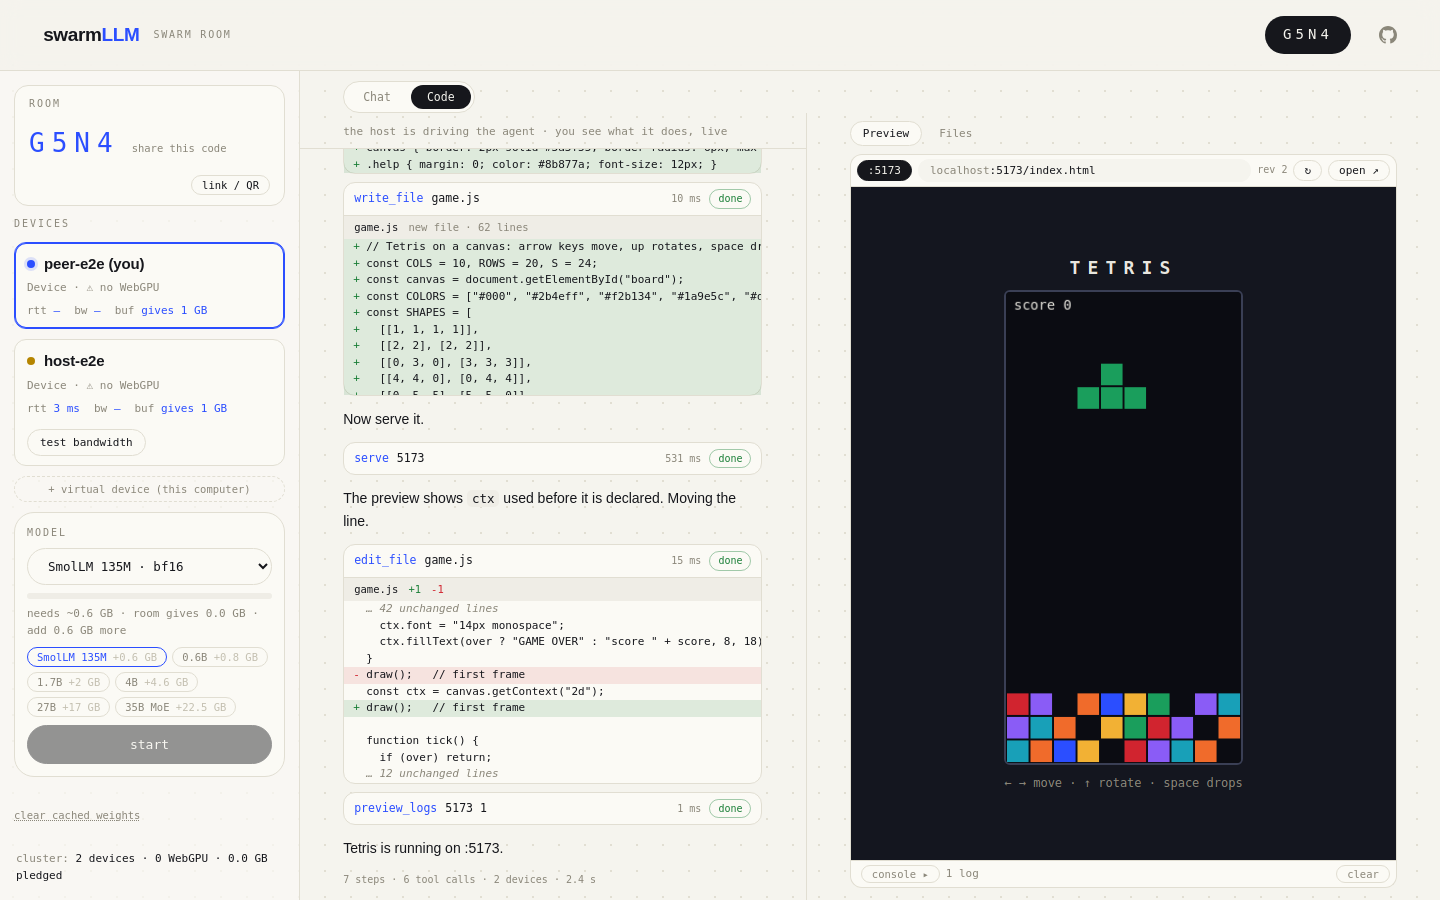
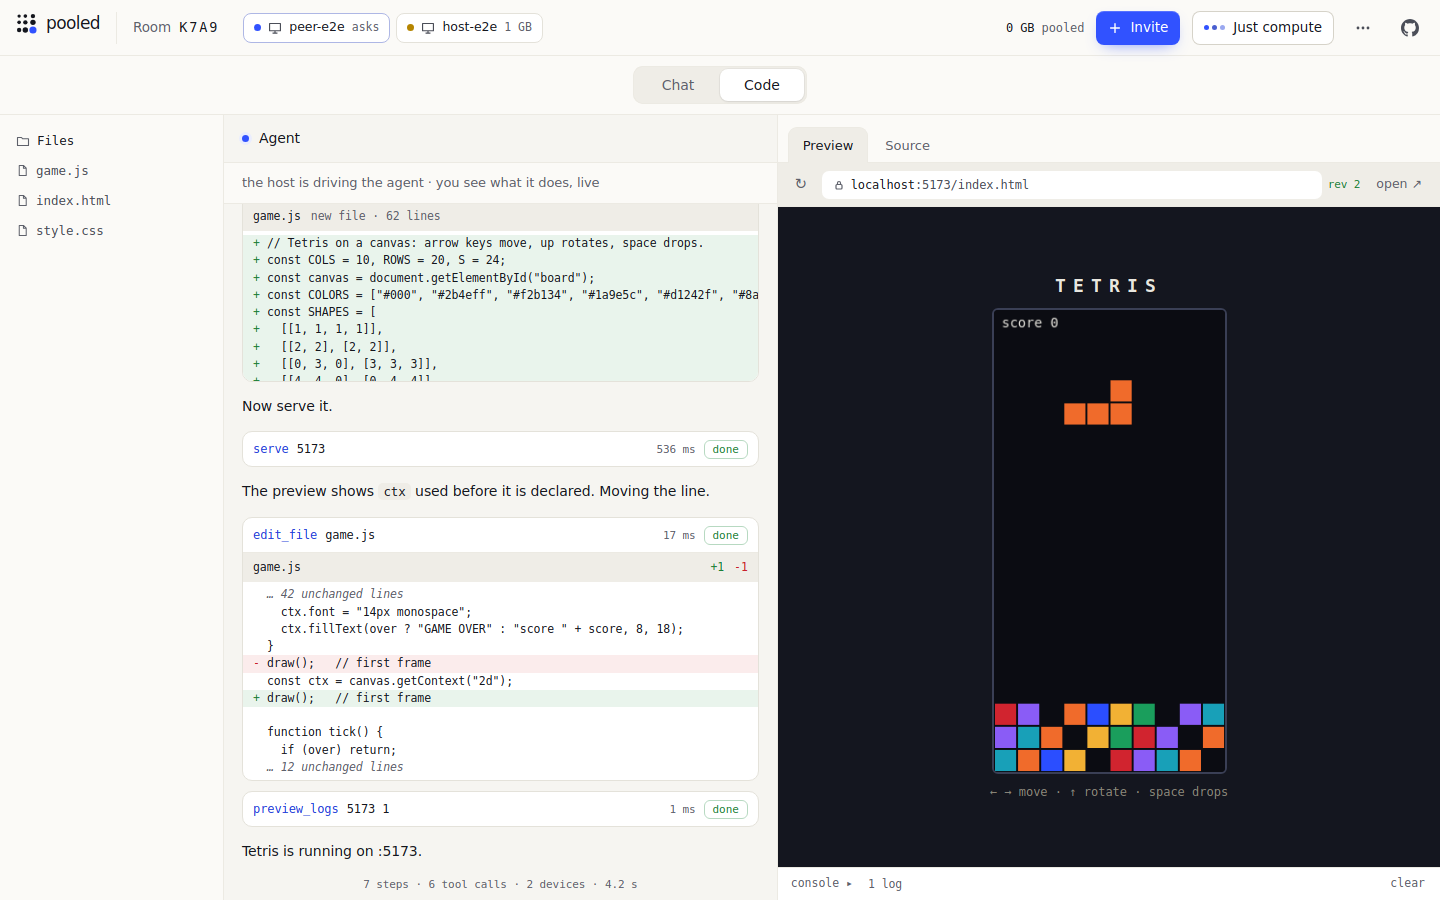
Room polish: the layer band's lanes get taller cells, a hidden state link between devices and room for each name, the room settings open inside the menu, and the Code mode screenshots show the new layout
Claude-Session: https://claude.ai/code/session_01MkVLt1BijYxEeNWsgihPdN

diff --git a/p2p.html b/p2p.html
@@ -290,14 +290,17 @@
   .m.bot.live .wd i:nth-child(2), #swarm-map.live .wd i:nth-child(2) { animation-delay: .33s; }
   .m.bot.live .wd i:nth-child(3), #swarm-map.live .wd i:nth-child(3) { animation-delay: .66s; }
   .sm-strip { display: flex; align-items: flex-end; gap: 0; min-width: 0; }
-  .sm-half { --sw: var(--faint); flex: var(--n) 1 0; min-width: 0; display: flex; flex-direction: column; gap: 7px; }
-  .sm-gap { flex: 0 0 clamp(14px, 3vw, 44px); align-self: stretch; position: relative; }
-  .sm-gap::after { content: ""; position: absolute; left: 4px; right: 4px; bottom: 11px; height: 2px; background: repeating-linear-gradient(90deg, var(--border-2) 0 4px, transparent 4px 8px); }
+  .sm-half { --sw: var(--faint); flex: var(--n) 1 0; min-width: min(172px, 28%); display: flex; flex-direction: column; gap: 7px; }
+  .sm-gap { flex: 0 0 clamp(14px, 8vw, 132px); align-self: stretch; position: relative; }
+  .sm-gap::before { content: "hidden state"; position: absolute; left: 0; right: 0; bottom: 21px; text-align: center; font: 400 10.5px/1 var(--mono); color: var(--muted); white-space: nowrap; }
+  #room-screen.sweep .sm-gap::before { animation: hs calc(var(--lap) * .9) var(--ease); }
+  @keyframes hs { 40%, 60% { color: var(--accent-text); } }
+  .sm-gap::after { content: ""; position: absolute; left: 8px; right: 8px; bottom: 14px; height: 2px; background: repeating-linear-gradient(90deg, var(--border-2) 0 4px, transparent 4px 8px); }
   .hl { display: flex; align-items: center; gap: 7px; height: 16px; min-width: 0; font-size: 12.5px; color: var(--muted); white-space: nowrap; }
   .hl svg { flex: none; width: 13px; height: 13px; color: var(--ink-2); }
   .hl b { font-weight: 500; color: var(--text); overflow: hidden; text-overflow: ellipsis; min-width: 0; }
   .hl span { margin-left: auto; padding-left: 8px; font: 400 11.5px/1 var(--mono); flex: none; }
-  .cells { display: grid; grid-auto-flow: column; grid-auto-columns: minmax(0, 1fr); gap: 2.5px; height: 24px; }
+  .cells { display: grid; grid-auto-flow: column; grid-auto-columns: minmax(0, 1fr); gap: 2.5px; height: 30px; }
   .cells i { border-radius: 2.5px; background: var(--sw); transform-origin: center bottom; }
   #room-screen.sweep .sm-strip .cells i { animation: cellhot calc(var(--lap) * .9) var(--ease) both; animation-delay: calc(var(--lap) * .9 * var(--c) / var(--cells, 40)); }
   @keyframes cellhot { 0%, 100% { transform: none; filter: none; box-shadow: none; } 30% { transform: scaleY(1.25); filter: brightness(1.45) saturate(1.2); box-shadow: 0 0 10px rgba(49,82,255,.55); } }
@@ -555,6 +558,8 @@
   #chatpane.code-mode :is(.sm-head, .sm-track, .hl) { display: none; }
   #chatpane.code-mode .cells { height: 6px; gap: 1.5px; }
   #chatpane.code-mode .sm-gap::after { bottom: 2px; }
+  #chatpane.code-mode .sm-gap { flex-basis: 24px; }
+  #chatpane.code-mode .sm-gap::before { display: none; }
   #chatpane.code-mode .mode-row { padding: 10px 16px; border-bottom: 1px solid var(--rule-2); background: var(--panel-3); }
   #code-pane { display: none; }
   #chatpane.code-mode #code-pane { flex: 1; min-height: 0; display: flex; flex-direction: column; overflow-y: auto; }
@@ -739,7 +744,7 @@
     #code-out { order: 2; border-top: 1px solid var(--rule-2); }
     #code-log { max-height: 62vh; }
   }
-  @container pane (max-width: 1000px) { .sm-meta { display: none; } }
+  @container pane (max-width: 1000px) { .sm-meta { display: none; } .sm-gap::before { display: none; } }
   @container pane (max-width: 700px) { .sm-track { display: none; } }
   .hbrk { display: none; }
 
@@ -772,7 +777,8 @@
     #swarm-map { padding: 12px 12px 14px; gap: 8px; }
     .hl span, .hl svg { display: none; }
     .hl { font-size: 12px; }
-    .cells { gap: 1.5px; height: 22px; }
+    .cells { gap: 1.5px; height: 24px; }
+    .sm-gap::after { bottom: 11px; }
     .cells i { border-radius: 1.5px; }
     .mode-row { padding-top: 10px; }
     #ai-empty { padding: 28px 20px 0; font-size: 22px; }
@@ -844,7 +850,7 @@
     <summary aria-label="Room menu" title="Room menu"><svg width="16" height="16" viewBox="0 0 16 16" fill="currentColor" aria-hidden="true"><circle cx="3" cy="8" r="1.4"/><circle cx="8" cy="8" r="1.4"/><circle cx="13" cy="8" r="1.4"/></svg></summary>
     <div class="menu-pop">
       <div id="cluster-bar">In this room: <b id="cluster-summary">1 device</b> <span class="sr-only">(<span id="peers-n">1</span>)</span></div>
-      <details id="host-controls" class="host-section" hidden>
+      <details id="host-controls" class="host-section" open hidden>
         <summary>Room settings</summary>
         <label for="ai-visibility">who sees the chat</label>
         <select id="ai-visibility" class="host-select">
